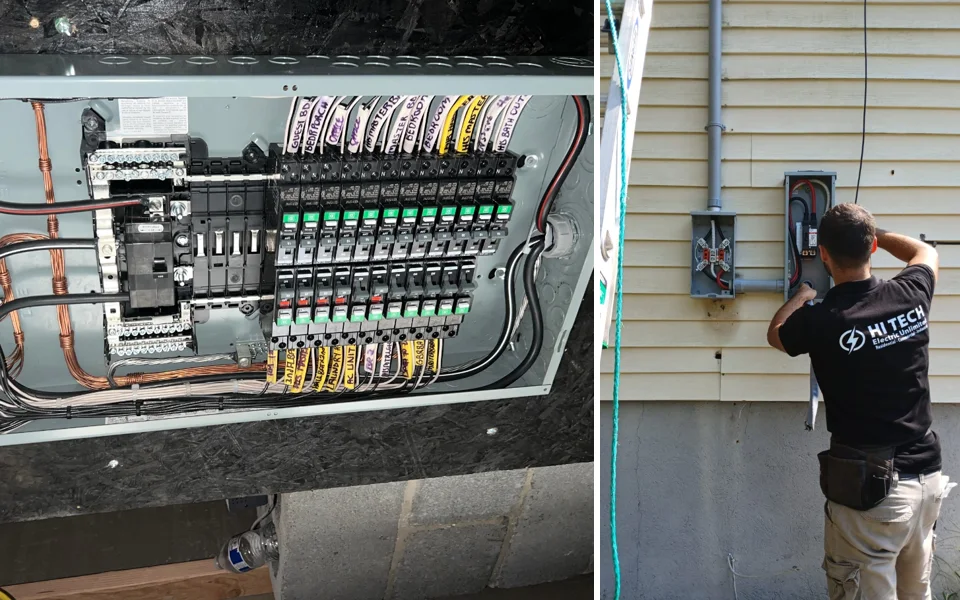
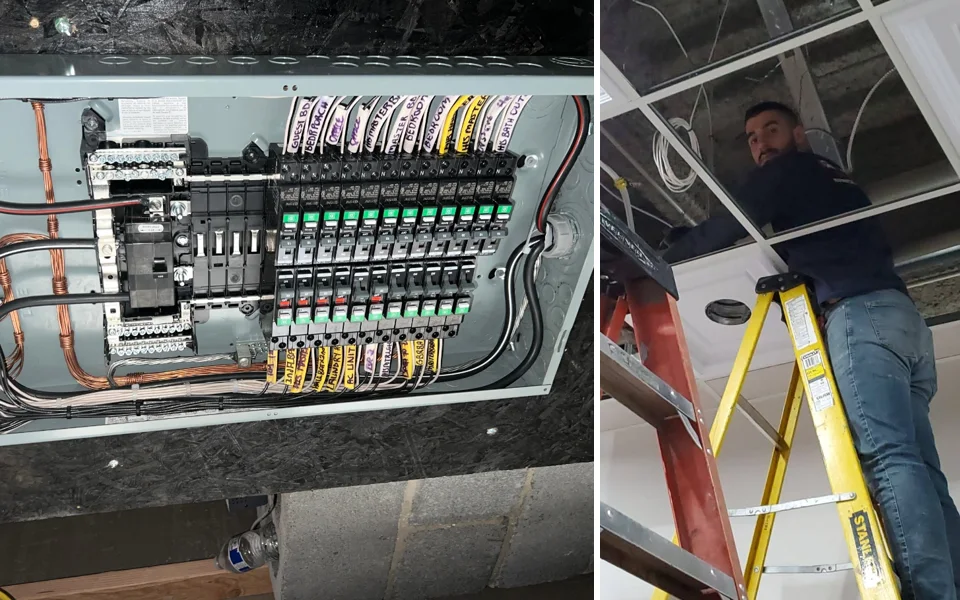
feat: on-the-job photo in the contracting preview

diff --git a/index.html b/index.html
@@ -316,7 +316,7 @@
         <div class="aside">
           <span class="badge">Founder</span>
           <span class="badge">Hands-on</span>
-          <img class="preview" src="media/business/preview.webp" alt="A finished residential load centre with every circuit labelled, and an electrician in a Hi Tech shirt working at an outdoor service meter" width="960" height="600" loading="lazy" decoding="async">
+          <img class="preview" src="media/business/preview.webp" alt="A finished residential load centre with every circuit labelled, and Omer on a ladder wiring above a drop ceiling" width="960" height="600" loading="lazy" decoding="async">
         </div>
         <div>
           <div class="title">Hi Tech Electrical Contractors</div>
@@ -333,6 +333,7 @@
           </p>
           <div class="links">
             <a href="https://proreferral.homedepot.com/public-profile/861937" target="_blank" rel="noopener">reviews and projects</a>
+            <a href="media/business/on-the-job.webp" target="_blank" rel="noopener">on the job</a>
             <a href="media/business/panel.webp" target="_blank" rel="noopener">panel photo</a>
             <a href="media/business/service-meter.webp" target="_blank" rel="noopener">service photo</a>
             <a href="media/business/army-support-site.webp" target="_blank" rel="noopener">US Army support site</a>
